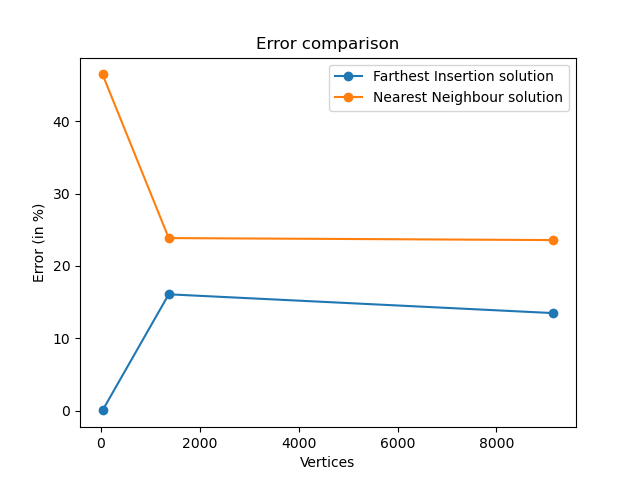
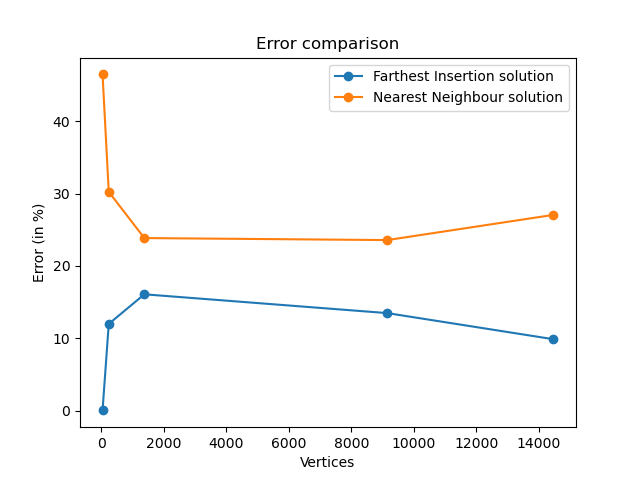
Add App class for everything

diff --git a/App.cpp b/App.cpp
@@ -1,0 +1,92 @@
+#include "App.h"
+
+App* App::instance = nullptr;
+
+App::App() {
+    addTest("tests/dj38.tsp", "tests/dj38-tour.txt");
+    addTest("tests/xqg237.tsp", "tests/xqg237-tour.txt");
+    addTest("tests/dka1376.tsp", "tests/dka1376-tour.txt");
+    addTest("tests/ar9152.tsp", "tests/ar9152-tour.txt");
+    addTest("tests/ho14473.tsp", "tests/ho14473-tour.txt");
+
+    sols.push_back(new NNSolution());
+    sols.push_back(new FISolution());
+    sols.push_back(new BruteSolution());
+    sols.push_back(new DPSolution());
+
+    std::cout << "Loaded test data and solutions!\n";
+}
+
+void App::addTest(const std::string& nameIn, const std::string& nameSol) {
+    std::ifstream in(nameIn);
+    std::ifstream inSol(nameSol);
+
+    TestData* test = new TestData(in, inSol);
+    tests.push_back(test);
+}
+
+void App::runAll() {
+    unsigned vertices = 13;
+    while(vertices > 12) {
+        std::cout << "Select number of vertices (less than 13): ";
+        std::cin >> vertices;
+    }
+    unsigned fromWeight = 1002, toWeight = 1001;
+    while(fromWeight > toWeight || toWeight > 1000) {
+        std::cout << "Select weight range, max allowed is 1000 (<from this number> <to this number>): ";
+        std::cin >> fromWeight >> toWeight;
+    }
+
+    std::cout << '\n';
+    Benchmark::runRandomized(sols, vertices, fromWeight, toWeight);
+}
+
+void App::runHeuristics() {
+    delete sols.back();
+    sols.pop_back();
+    delete sols.back();
+    sols.pop_back();
+
+    Benchmark::runHeuristics(sols, tests, true);
+}
+ 
+App* App::getInstance() {
+    if(!instance) {
+        instance = new App();
+    }
+
+    return instance;
+}
+
+App::~App() {
+    for(ISolution* sol : sols) {
+        delete sol;
+    }
+    for(TestData* test : tests) {
+        delete test;
+    }
+}
+
+void App::run() {
+    std::cout << "Options:\n";
+    std::cout << "(1) Run all algorithms on a random graph with specified number of vertices.\n";
+    std::cout << "(2) Run and plot heuristic algorithms on a prepared test data.\n";
+
+    bool good = false;
+    std::string input;
+    while(!good) {
+        std::cout << "Choice: ";
+
+        std::cin >> input;
+        if(input == "1") {
+            good = true;
+            runAll();
+        } else if(input == "2") {
+            good = true;
+            runHeuristics();
+        } else {
+            std::cout << "You should type '1' or '2'!\n\n";
+        }
+    }
+}
+

diff --git a/main.cpp b/main.cpp
@@ -1,50 +1,10 @@
-#include <iostream>
-#include "BruteSolution.h"
-#include "DPSolution.h"
-#include "NNSolution.h"
-#include "FISolution.h"
-#include "ISolution.h"
-#include "GraphGenerator.h"
-#include "TestData.h"
-#include "Benchmark.h"
+#include "App.h"
 
 int main() {
-    std::ifstream t1("tests/dj38.tsp"), st1("tests/dj38-tour.txt");
-    TestData *T1 = new TestData(t1, st1);
-    t1.close();
-    st1.close();
+    App* TSP = App::getInstance();
 
-    t1.open("tests/ar9152.tsp");
-    st1.open("tests/ar9152-tour.txt");
-    TestData *T2 = new TestData(t1, st1);
-    t1.close();
-    st1.close();
+    TSP->run();
 
-    t1.open("tests/dka1376.tsp");
-    st1.open("tests/dka1376-tour.txt");
-    TestData *T3 = new TestData(t1, st1);
-    t1.close();
-    st1.close();
-
-    std::vector<TestData*> tests;
-    tests.push_back(T1);
-    tests.push_back(T3);
-    tests.push_back(T2);
-
-    std::vector<ISolution*> sols;
-    sols.push_back(new NNSolution());
-    sols.push_back(new FISolution());
-
-    //Benchmark::runRandomized(sols, 10, 1, 15, false);
-    Benchmark::runHeuristics(sols, tests, true);
-
-    for(ISolution* i : sols) {
-        delete i;
-    }
-    for(TestData* i : tests) {
-        delete i;
-    }
-
+    delete TSP;
     return 0;
 }
-

diff --git a/App.h b/App.h
@@ -1,0 +1,34 @@
+#ifndef __APP_H_INCLUDED
+#define __APP_H_INCLUDED
+
+#include "MatrixGraph.h"
+#include "GraphGenerator.h"
+#include "ISolution.h"
+#include "BruteSolution.h"
+#include "DPSolution.h"
+#include "FISolution.h"
+#include "NNSolution.h"
+#include "TestData.h"
+#include "Benchmark.h"
+#include <iostream>
+
+class App {
+    private:
+        static App* instance;
+        App();
+
+        std::vector<ISolution*> sols;
+        std::vector<TestData*> tests;
+
+        void addTest(const std::string&, const std::string&);
+        void runAll();
+        void runHeuristics();
+
+    public:
+        static App* getInstance();
+        ~App();
+
+        void run();
+};
+
+#endif
